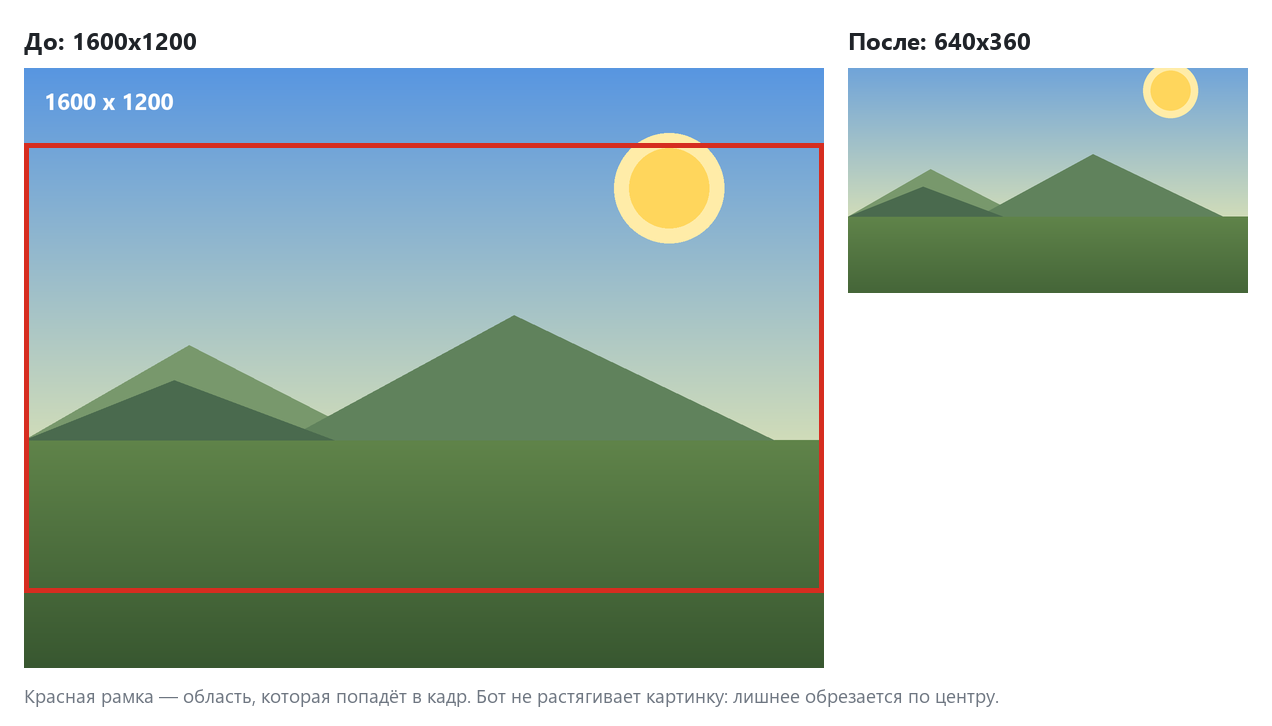
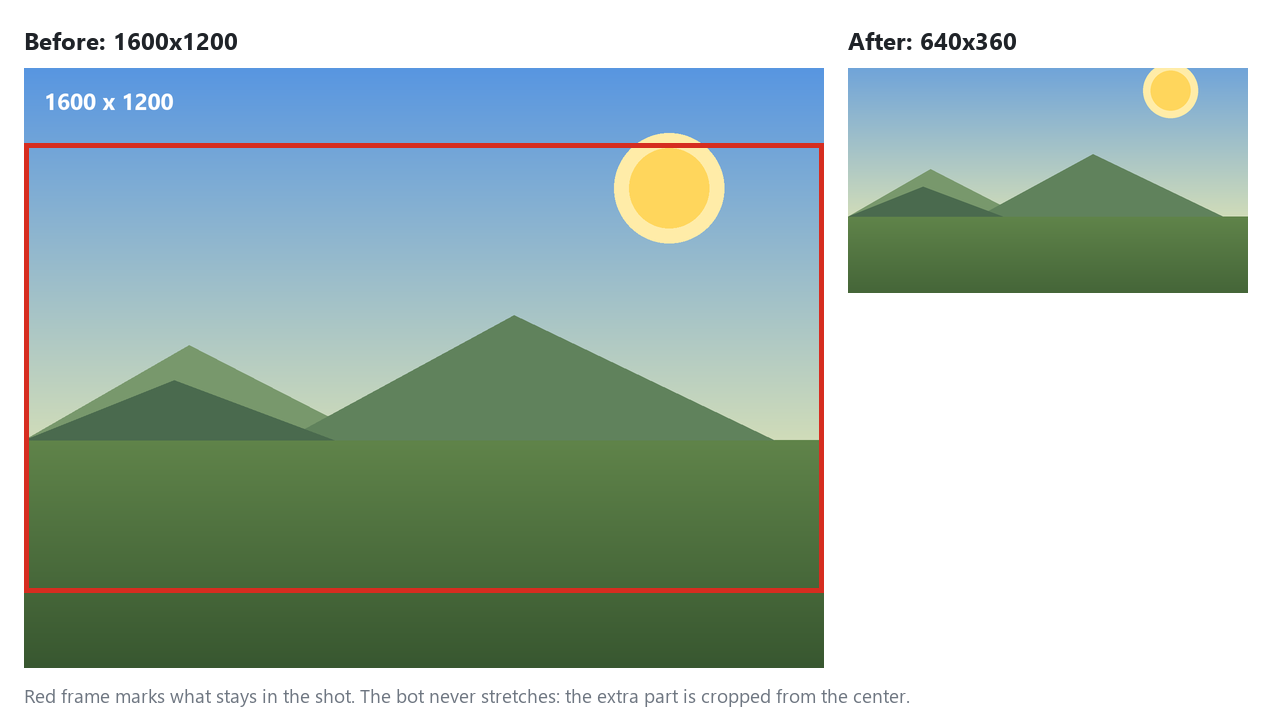
English-first README: use cases, examples and search tags
- README now leads in English, with a Russian section below.
- Added a table of where 640x360 images are used and five concrete examples.
- docs/demo.png labels are in English; the image is still generated by the
  bot's own resize_to_target().
- bot.py: English docstrings and a shape check that refuses to start on a
  BOT_TOKEN that does not look like a Telegram token (value never printed).

Changed region(s): [[0.0307, 0.9394, 0.7972, 0.9697], [0.0, 0.0303, 0.184, 0.0909], [0.6745, 0.0303, 0.8278, 0.0909]]

diff --git a/bot.py b/bot.py
@@ -1,15 +1,16 @@
 #!/usr/bin/env python3
 # -*- coding: utf-8 -*-
-"""Telegram-бот: приводит присланную картинку к размеру 640x360.
+"""Telegram bot that returns any photo as a 640x360 (16:9) image.
 
-Что делает:
-  * принимает фото от пользователя;
-  * вписывает его в рамку 640x360 с сохранением пропорций;
-  * обрезает лишнее по центру (без растягивания и «сплющивания»);
-  * возвращает готовый PNG в ответ.
+What it does:
+  * takes a photo from the user;
+  * fits it into a 640x360 frame, keeping the proportions;
+  * crops the extra part from the center (no stretching, no squeezing);
+  * sends the result back as a PNG.
 
-Токен бота берётся из переменной окружения BOT_TOKEN — в коде секретов нет.
-Скопируйте .env.example в .env и впишите свой токен.
+There are no secrets in this file: the token comes from the BOT_TOKEN
+environment variable. Copy .env.example to .env and put your own token there.
+User-facing bot replies are in Russian; see start() and photo_handler().
 """
 
 import logging
@@ -32,11 +33,21 @@ logging.basicConfig(
 log = logging.getLogger("resize-img-bot")
 
 
-def resize_to_target(img: Image.Image) -> Image.Image:
-    """Вписать картинку в рамку 640x360 и обрезать лишнее по центру.
+def looks_like_bot_token(value: str) -> bool:
+    """Rough shape check for a Telegram bot token — digits, colon, long tail.
 
-    Пропорции сохраняются: картинка не растягивается. Если исходник шире
-    рамки — обрезаются бока, если выше — верх и низ.
+    Guards against pasting some other secret into BOT_TOKEN. The value itself
+    is never logged or printed anywhere.
+    """
+    head, _, tail = value.partition(":")
+    return head.isdigit() and len(head) >= 8 and len(tail) >= 30
+
+
+def resize_to_target(img: Image.Image) -> Image.Image:
+    """Fit the image into a 640x360 frame and crop the extra part from the center.
+
+    Proportions are kept: the image is never stretched. A source wider than the
+    frame loses its sides, a taller one loses its top and bottom.
     """
     img_ratio = img.width / img.height
     target_ratio = TARGET_WIDTH / TARGET_HEIGHT
@@ -84,8 +95,17 @@ def main() -> None:
     token = (os.getenv("BOT_TOKEN") or "").strip()
     if not token:
         raise SystemExit(
-            "Не задан BOT_TOKEN. Скопируйте .env.example в .env и впишите токен "
-            "от @BotFather — файл .env в репозиторий не попадает."
+            "BOT_TOKEN is not set. Copy .env.example to .env and put your own "
+            "token from @BotFather there — .env never goes to the repository.\n"
+            "BOT_TOKEN не задан: скопируйте .env.example в .env и впишите свой "
+            "токен — файл .env в репозиторий не попадает."
+        )
+    if not looks_like_bot_token(token):
+        raise SystemExit(
+            "BOT_TOKEN does not look like a Telegram bot token. Check .env. "
+            "The value is not printed here on purpose.\n"
+            "BOT_TOKEN не похож на токен Telegram — проверьте .env. "
+            "Само значение не печатается намеренно."
         )
 
     app = ApplicationBuilder().token(token).build()

diff --git a/README.md b/README.md
@@ -1,32 +1,56 @@
-# Telegram Image Resize Bot
+# Telegram Image Resize Bot — 640×360
 
-Telegram-бот на Python: принимает картинку и возвращает её в размере **640×360** —
-с сохранением пропорций и обрезкой по центру, без растягивания.
+A Telegram bot in Python: it takes any photo and returns it as a **640×360 (16:9)**
+image — proportions kept, center cropped, never stretched.
 
-![Пример работы: до и после](docs/demo.png)
+![Before and after: the red frame marks the area that stays in the shot](docs/demo.png)
 
-Типовая задача: привести картинку к формату превью или обложки, который требует
-сайт, каталог или рекламный кабинет, не открывая графический редактор.
+**No tokens in this repository.** The bot reads its token from the `BOT_TOKEN`
+environment variable — put your own value there. `.env` is listed in `.gitignore`,
+so your keys stay on your machine. The script also refuses to start on a value
+that does not look like a Telegram token, and never prints it.
 
-## Свои ключи подставляете сами
+## Where these images go — and why 640×360
 
-**В репозитории нет ни одного токена и пароля.** Токен бота бот берёт из переменной
-окружения `BOT_TOKEN` — впишите туда свой (куда именно, см. «Переменные окружения»).
-Так код можно спокойно публиковать и передавать: секретов в нём не лежит.
+640×360 is exactly 16:9: the same frame as 1280×720 and 1920×1080, only smaller.
+That ratio is what most layouts ask for, so one pass through the bot gives you a
+picture that fits without hand-cropping.
 
-## Что делает
-
-| Шаг | Что происходит |
+| Where the image is used | Why 16:9 / 640×360 fits |
 | --- | --- |
-| 1 | Пользователь отправляет боту фото |
-| 2 | Бот вписывает картинку в рамку 640×360 — пропорции сохраняются |
-| 3 | Лишнее обрезается по центру, готовый PNG возвращается в ответ |
+| Service and product cards on a website | cards are 16:9 blocks — equal heights, no jumping rows |
+| Blog and article covers | the cover shows fully; the layout does not cut it |
+| Video thumbnails, 360p previews | 640×360 is the standard small frame for 16:9 video |
+| Ad creatives (Yandex Direct, VK, Meta) | most placements ask for 16:9 or 1.78 |
+| Slides, presentations, price lists | one picture size for the whole deck |
+| Catalogues and galleries | thumbnails line up instead of "breathing" |
 
-Работает в личных чатах: команда `/start` и любое присланное фото.
+### Examples
 
-## Как поставить
+- **Ten photos for a services page.** In an editor that is ten manual crops; here you
+  forward the photos to the bot and get ten files of the same size, ready to drop in.
+- **One photo, three places.** The same shot goes to a website card, a post preview and
+  a presentation slide — all 16:9, all the same weight on the page.
+- **From a phone, on site.** The photos were taken on a phone at the object, and the
+  catalogue needs them before you are back at the laptop.
+- **A tall photo.** A 1600×1200 shot loses 12.5% from the top and the bottom and keeps
+  the middle — an honest frame instead of a squeezed picture.
+- **Mixed sources.** Photos from a camera, a phone and a messenger screenshot all come
+  out the same size, so a grid of cards looks tidy.
 
-Нужен Python 3.10 или новее.
+## What it does
+
+| Step | What happens |
+| --- | --- |
+| 1 | You send the bot a photo |
+| 2 | The bot fits it into a 640×360 frame, keeping the proportions |
+| 3 | The extra part is cropped from the center; the PNG comes back as a reply |
+
+Works in private chats: `/start`, then any photo.
+
+## Install
+
+Python 3.10 or newer.
 
 ```bash
 git clone https://github.com/it-bas-shuravi/resize-img-mx-bot.git
@@ -41,42 +65,98 @@ source .venv/bin/activate
 pip install -r requirements.txt
 ```
 
-## Переменные окружения
+## Environment variables
 
-Секретов в коде нет: бот читает их из переменных окружения.
-
-| Переменная | Обязательна | Что это |
+| Variable | Required | What it is |
 | --- | --- | --- |
-| `BOT_TOKEN` | да | токен бота от [@BotFather](https://t.me/BotFather) |
+| `BOT_TOKEN` | yes | bot token from [@BotFather](https://t.me/BotFather) |
 
-Скопируйте шаблон и впишите **свой** токен:
+Copy the template and put in **your own** token:
 
 ```bash
 cp .env.example .env
-# откройте .env и укажите BOT_TOKEN=<ваш токен>
+# open .env and set BOT_TOKEN=<your token>
 ```
 
-Файл `.env` внесён в `.gitignore` и в репозиторий не попадает — свои ключи
-остаются только на вашей машине.
+`.env` is in `.gitignore` and never reaches the repository — your keys stay local.
 
-## Запуск
+## Run
 
 ```bash
 python bot.py
 ```
 
-В консоли появится `Бот запущен, жду фото`. Откройте бота в Telegram, нажмите
-`/start` и отправьте картинку.
+The console prints `Бот запущен, жду фото`. Open the bot in Telegram, send `/start`
+and then any picture.
 
-## Структура
+## Structure
 
 ```
-bot.py             — логика бота: приём фото, ресайз, ответ
-requirements.txt   — зависимости
-.env.example       — шаблон переменных окружения
-docs/demo.png      — пример работы: что было и что получилось
+bot.py             — bot logic: receive a photo, resize, reply
+requirements.txt   — dependencies
+.env.example       — environment variable template (no values)
+docs/demo.png      — before/after example produced by this code
 ```
 
-## Лицензия
+## Notes
 
-MIT — см. [LICENSE](LICENSE).
+- Bot replies are in Russian — change them in `start()` and `photo_handler()`.
+- No telemetry and no third-party APIs: the image is processed locally with Pillow.
+- The example image in `docs/` was generated by the bot's own `resize_to_target()`,
+  not retouched by hand.
+
+## License
+
+MIT — see [LICENSE](LICENSE).
+
+---
+
+## По-русски
+
+Telegram-бот на Python: принимает любое фото и возвращает картинку **640×360 (16:9)** —
+пропорции сохраняются, лишнее обрезается по центру, без растягивания.
+
+**Ключей в репозитории нет.** Токен бот берёт из переменной окружения `BOT_TOKEN` —
+свой вписываете сами, файл `.env` в `.gitignore` и в репозиторий не попадает.
+Если значение не похоже на токен Telegram, бот просто не запустится — и никогда
+не печатает сам токен.
+
+### Куда идут такие картинки
+
+640×360 — это ровно 16:9, тот же кадр, что 1280×720 и 1920×1080, только меньше.
+Такой формат просят почти все вёрстки:
+
+| Куда | Почему 16:9 / 640×360 подходит |
+| --- | --- |
+| Карточки услуг и товаров на сайте | карточка — блок 16:9: ряды ровные, высота не «прыгает» |
+| Обложки статей в блоге | обложка видна целиком, вёрстка её не режет |
+| Превью видео, кадр 360p | 640×360 — стандартный маленький кадр для 16:9 |
+| Баннеры в рекламных кабинетах | большинство площадок просят 16:9 или 1.78 |
+| Слайды, презентации, прайсы | один размер картинки на всю презентацию |
+| Каталоги и галереи | миниатюры выстраиваются в линию, а не «дышат» |
+
+### Примеры
+
+- **Десять фото для страницы услуг.** В редакторе это десять ручных обрезок; здесь
+  пересылаешь фото боту и получаешь десять файлов одного размера — можно сразу вставлять.
+- **Одно фото — три места.** Одна и та же картинка идёт в карточку на сайте, в превью
+  поста и в слайд презентации: везде 16:9 и одинаковый вес на странице.
+- **С телефона, на объекте.** Фото сняты на телефон, а каталог ждёт их «сегодня».
+- **Высокое фото.** Кадр 1600×1200 теряет по 12,5% сверху и снизу и сохраняет середину —
+  это честнее, чем сплющенная картинка.
+- **Разные источники.** Фото с камеры, с телефона и скриншот из мессенджера выходят
+  одного размера — сетка карточек выглядит аккуратно.
+
+### Как поставить
+
+Нужен Python 3.10 или новее:
+
+```bash
+git clone https://github.com/it-bas-shuravi/resize-img-mx-bot.git
+cd resize-img-mx-bot
+pip install -r requirements.txt
+cp .env.example .env        # и впишите свой BOT_TOKEN от @BotFather
+python bot.py
+```
+
+В консоли появится `Бот запущен, жду фото` — дальше `/start` и любая картинка.
